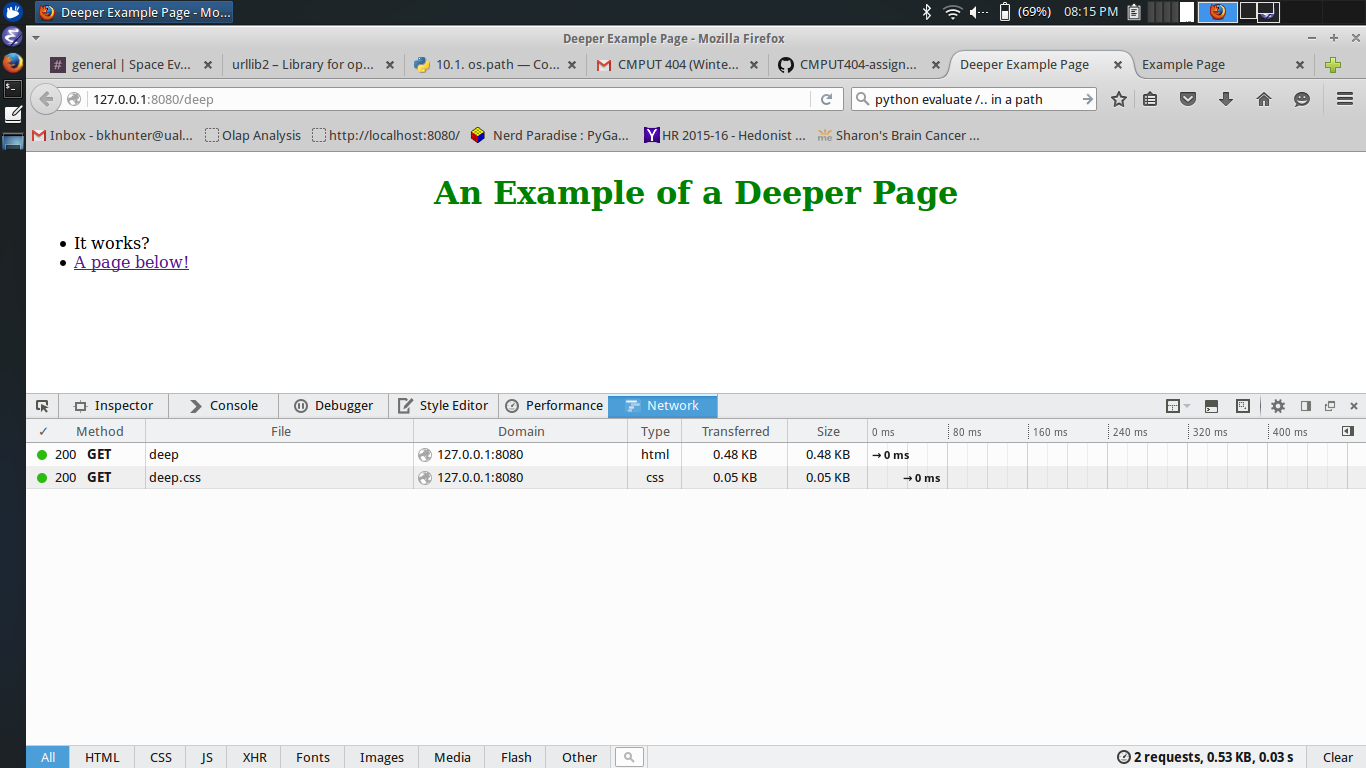
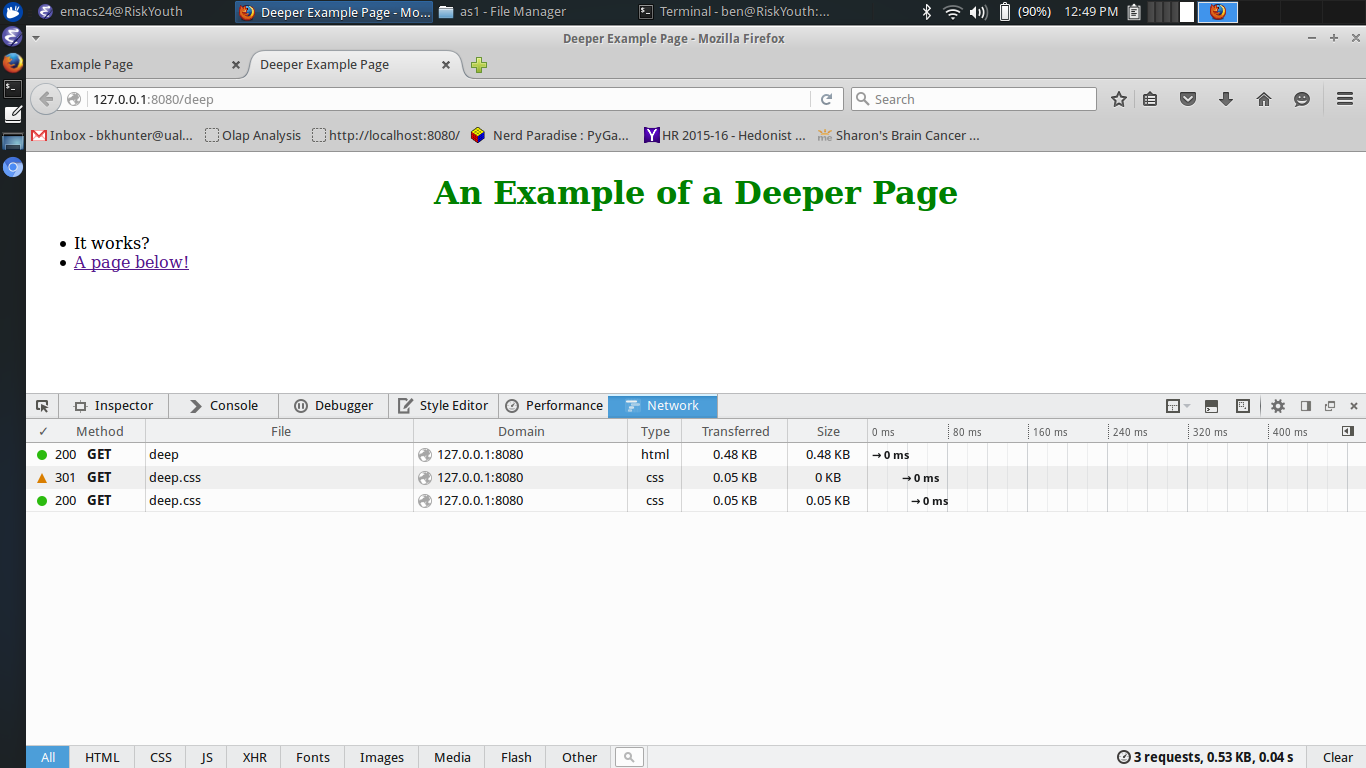
updated screenshots, need to investigate an issue of slow response time after redirect

diff --git a/server.py b/server.py
@@ -109,7 +109,7 @@ class MyWebServer(SocketServer.BaseRequestHandler):
                 if path == '/deep.css':
                     # redirect!
                     HTTP_Code = "HTTP/1.1 301 Moved Permanently"
-                    location = "Location: http://localhost:8080/deep/deep.css"
+                    location = "Location: http://127.0.0.1:8080/deep/deep.css"
                     response = HTTP_Code + '\r\n' + location + '\r\n\r\n'
                     return response
                 else:  
